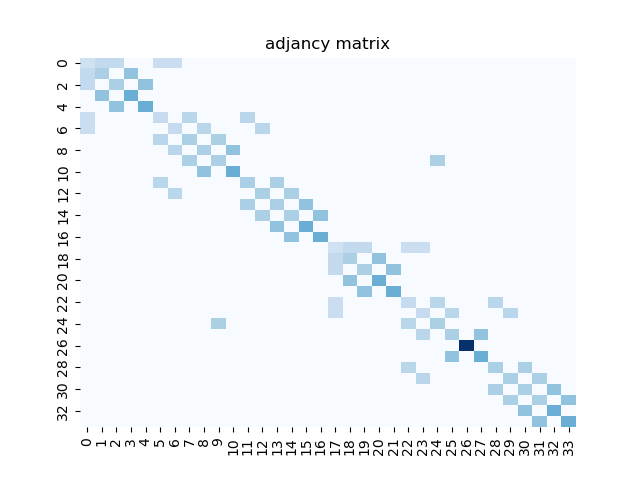
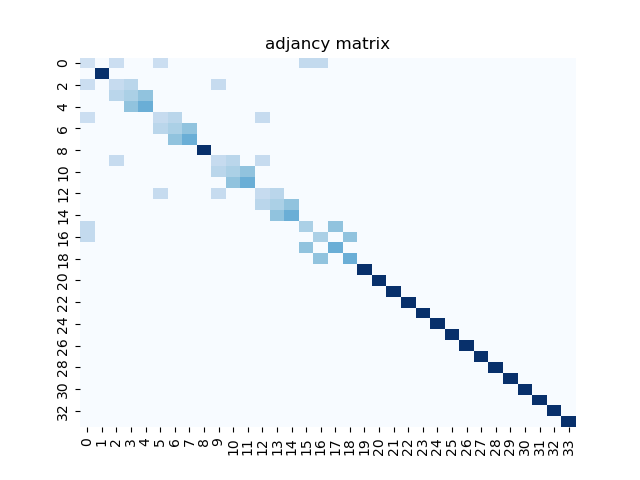
12/4

diff --git a/utils/create_data.py b/utils/create_data.py
@@ -2,7 +2,8 @@ import numpy as np
 import os
 import time
 import datetime
-from utils.pre_data import to_center, t_skeleton_normarization_fixed_size, setup_data, t_skeleton_perspectiveTransform
+from utils.pre_data import to_center, t_skeleton_normarization_fixed_size, setup_data, t_skeleton_perspectiveTransform, PreNormalize3D
+from utils.preprocess import pre_normalization, transform_normarize
 
 def create_two_person_data(meta, try_count, input_file_name):
     
@@ -22,62 +23,116 @@ def create_two_person_data(meta, try_count, input_file_name):
     right_node_index = meta["right_node_index"]
     
     if not (os.path.isdir(f"my_data/{input_file_name}/{try_count}")):
-        keypoints = np.load("my_data/N_M_T_V_C_keiypoints.npy")
-        labels = np.load("my_data/N_Time.npy")
-
         
-        N, M, T, V, C = keypoints.shape
-        if meta["is_turned"] == True:
-            keypoints[N//2:, :, :, :, 0] = keypoints[N//2:, :, :, :, 0] * -1.0
+        if (meta["in_channels"] == 2):
+            keypoints = np.load("my_data/N_M_T_V_C_keiypoints.npy")
+            labels = np.load("my_data/N_Time.npy")
 
-        VxM = len(left_node_index) + len(right_node_index)
 
-        data = np.zeros((N * min_move_num, out_frame_num, VxM, C))
-
-        for i in range(N):
-            for j in range(M):
-                
-                if meta["has_bn"] == False:
-                    # 人物をフレームの中心に持ってくる
-                    keypoints[i, j] = to_center(keypoints[i, j], shoulder_and_hip, 255, 255)
-                    # 時間(T, V, C)を入力にして正規化
-                    keypoints[i, j] = t_skeleton_normarization_fixed_size(data=keypoints[i, j], fixed_size=50, is_center=meta["is_center"])
-                    
-                if meta["has_perspective"] == True:
-                    keypoints[i, j] = t_skeleton_perspectiveTransform(data=keypoints[i, j],  shoulder_and_hip=shoulder_and_hip)
-                    
-
-            # 左の人からはleft_node_indexにはいっているノードだけ取り出す
-            # 例 left_node_index=[0, 1, 2, 15] 鼻,左目,右目,左足首
-            # 左側の人と右側の人とを同じグラフにする
-            left_person = np.transpose(keypoints[i, 0, :, left_node_index, :], (1, 0, 2))
-            right_person = np.transpose(keypoints[i, 1, :, right_node_index, :], (1, 0, 2))
             
-            tmp = np.concatenate((left_person, right_person), 1)
+            N, M, T, V, C = keypoints.shape
+            if meta["is_turned"] == True:
+                keypoints[N//2:, :, :, :, 0] = keypoints[N//2:, :, :, :, 0] * -1.0
+                
 
-            data[i * min_move_num : (i + 1) * min_move_num] = setup_data(tmp, labels[i], out_frame_num, interval_num, min_move_num)
+            
 
-        data = data / meta["normarize_scale"]
-        print(data.shape)
+            VxM = len(left_node_index) + len(right_node_index)
 
-        # 正解ラベル作成
-        label = np.arange(NUM_CLASSES)
-        label = label.repeat(min_move_num)
-        label = np.tile(label, (N // NUM_CLASSES))
-        print(label.shape)
+            data = np.zeros((N * min_move_num, out_frame_num, VxM, C))
 
-        # データを保存
-        os.makedirs(name=f"my_data/{input_file_name}/{try_count}", exist_ok=True)
+            for i in range(N):
+                for j in range(M):
+                    
+                    if meta["has_bn"] == False:
+                        # 人物をフレームの中心に持ってくる
+                        keypoints[i, j] = to_center(keypoints[i, j], shoulder_and_hip, 255, 255)
+                        # 時間(T, V, C)を入力にして正規化
+                        keypoints[i, j] = t_skeleton_normarization_fixed_size(data=keypoints[i, j], fixed_size=50, is_center=meta["is_center"])
+                        
+                    if meta["has_perspective"] == True:
+                        keypoints[i, j] = t_skeleton_perspectiveTransform(data=keypoints[i, j],  shoulder_and_hip=shoulder_and_hip)
+                        
 
-        np.save(f"my_data/{input_file_name}/{try_count}/data.npy", data)
-        np.save(f"my_data/{input_file_name}/{try_count}/label.npy", label)
+                # 左の人からはleft_node_indexにはいっているノードだけ取り出す
+                # 例 left_node_index=[0, 1, 2, 15] 鼻,左目,右目,左足首
+                # 左側の人と右側の人とを同じグラフにする
+                left_person = np.transpose(keypoints[i, 0, :, left_node_index, :], (1, 0, 2))
+                right_person = np.transpose(keypoints[i, 1, :, right_node_index, :], (1, 0, 2))
+                
+                tmp = np.concatenate((left_person, right_person), 1)
 
+                data[i * min_move_num : (i + 1) * min_move_num] = setup_data(tmp, labels[i], out_frame_num, interval_num, min_move_num)
+
+            data = data / meta["normarize_scale"]
+            print(data.shape)
+
+            # 正解ラベル作成
+            label = np.arange(NUM_CLASSES)
+            label = label.repeat(min_move_num)
+            label = np.tile(label, (N // NUM_CLASSES))
+            print(label.shape)
+
+            # データを保存
+            os.makedirs(name=f"my_data/{input_file_name}/{try_count}", exist_ok=True)
+
+            np.save(f"my_data/{input_file_name}/{try_count}/data.npy", data)
+            np.save(f"my_data/{input_file_name}/{try_count}/label.npy", label)
+
+
+##################################### 3d ##############################################################################################
+        elif (meta["in_channels"] == 3):
+            
+            if (meta["pose_data_type"] == "phalp"):
+                keypoints = np.load("my_data/phalp_n_m_t_v_c.npy")
+            else:
+                keypoints = np.load("my_data/3d_keiypoints.npy")
+                
+            labels = np.load("my_data/N_Time.npy")       
+            
+            N, M, T, V, C = keypoints.shape
+            VxM = len(left_node_index) + len(right_node_index)
+            data = np.zeros((N * min_move_num, out_frame_num, VxM, C))
+            
+            
+            # pysklの軸を合わせる正規化
+            if (meta["pyskl_3d_normarize"] == True):
+                keypoints = pre_normalization(keypoints)
+                
+            if (meta["transform_normarize"] == True):
+                keypoints = transform_normarize(keypoints, meta)
+            
+            tmp = keypoints.reshape(N, T, V*M, C)
+            for i in range(N):                
+                
+                # 左の人からはleft_node_indexにはいっているノードだけ取り出す
+                # 例 left_node_index=[0, 1, 2, 15] 鼻,左目,右目,左足首
+                # 左側の人と右側の人とを同じグラフにする
+                left_person = np.transpose(keypoints[i, 0, :, left_node_index, :], (1, 0, 2))
+                right_person = np.transpose(keypoints[i, 1, :, right_node_index, :], (1, 0, 2))
+                
+                tmp = np.concatenate((left_person, right_person), 1)
+                data[i * min_move_num : (i + 1) * min_move_num] = setup_data(tmp, labels[i], out_frame_num, interval_num, min_move_num)
+
+            # 正解ラベル作成
+            label = np.arange(NUM_CLASSES)
+            label = label.repeat(min_move_num)
+            label = np.tile(label, (N // NUM_CLASSES))
+            print(label.shape)
+
+            # データを保存
+            os.makedirs(name=f"my_data/{input_file_name}/{try_count}", exist_ok=True)
+
+            np.save(f"my_data/{input_file_name}/{try_count}/data.npy", data)
+            np.save(f"my_data/{input_file_name}/{try_count}/label.npy", label)        
+                
     else:
         print("data_file is existed")
-        
+             
         
     data_creation_time = time.time()
     print("data_creation_time : ", datetime.timedelta(seconds=data_creation_time - start))
+    
     
     
 def create_one_person_data(meta, try_count, input_file_name):

diff --git a/utils/pre_data.py b/utils/pre_data.py
@@ -356,3 +356,87 @@ def warpPerspective(d, M):
     _x = (M[0, 0]*x + M[0, 1]*y + M[0, 2]) / (M[2, 0]*x + M[2, 1]*y + M[2, 2])
     _y = (M[1, 0]*x + M[1, 1]*y + M[1, 2]) / (M[2, 0]*x + M[2, 1]*y + M[2, 2])
     return np.array([_x, _y])
+
+
+
+
+class PreNormalize3D:
+    """PreNormalize for NTURGB+D 3D keypoints (x, y, z). Codes adapted from https://github.com/lshiwjx/2s-AGCN. """
+
+    def unit_vector(self, vector):
+        """Returns the unit vector of the vector. """
+        return vector / np.linalg.norm(vector)
+
+    def angle_between(self, v1, v2):
+        """Returns the angle in radians between vectors 'v1' and 'v2'. """
+        if np.abs(v1).sum() < 1e-6 or np.abs(v2).sum() < 1e-6:
+            return 0
+        v1_u = self.unit_vector(v1)
+        v2_u = self.unit_vector(v2)
+        return np.arccos(np.clip(np.dot(v1_u, v2_u), -1.0, 1.0))
+
+    def rotation_matrix(self, axis, theta):
+        """Return the rotation matrix associated with counterclockwise rotation
+        about the given axis by theta radians."""
+        if np.abs(axis).sum() < 1e-6 or np.abs(theta) < 1e-6:
+            return np.eye(3)
+        axis = np.asarray(axis)
+        axis = axis / np.sqrt(np.dot(axis, axis))
+        a = np.cos(theta / 2.0)
+        b, c, d = -axis * np.sin(theta / 2.0)
+        aa, bb, cc, dd = a * a, b * b, c * c, d * d
+        bc, ad, ac, ab, bd, cd = b * c, a * d, a * c, a * b, b * d, c * d
+        return np.array([[aa + bb - cc - dd, 2 * (bc + ad), 2 * (bd - ac)],
+                        [2 * (bc - ad), aa + cc - bb - dd, 2 * (cd + ab)],
+                        [2 * (bd + ac), 2 * (cd - ab), aa + dd - bb - cc]])
+
+    def __init__(self, zaxis=[0, 8], xaxis=[1, 4], align_spine=True, align_center=True):
+        self.zaxis = zaxis
+        self.xaxis = xaxis
+        self.align_spine = align_spine
+        self.align_center = align_center
+
+
+    def __call__(self, keypoints):
+        skeleton = keypoints
+        # total_framesが存在しない場合は(M, T, V, C)のTをtotal_frameに代入
+        total_frames = keypoints.shape[1]
+
+        T, V, C = skeleton.shape
+        
+        if skeleton.sum() == 0:
+            return keypoints
+
+
+        T_new = skeleton.shape[0]
+
+        if self.align_center:
+            if skeleton.shape[1] == 25:
+                main_body_center = skeleton[0, 1].copy()
+            else:
+                main_body_center = skeleton[0, -1].copy()
+            mask = ((skeleton != 0).sum(-1) > 0)[..., None]
+            skeleton = (skeleton - main_body_center) * mask
+
+        if self.align_spine:
+            joint_bottom = skeleton[0, self.zaxis[0]]
+            joint_top = skeleton[0, self.zaxis[1]]
+            axis = np.cross(joint_top - joint_bottom, [0, 0, 1])
+            angle = self.angle_between(joint_top - joint_bottom, [0, 0, 1])
+            matrix_z = self.rotation_matrix(axis, angle)
+            skeleton = np.einsum('bcd,kd->bck', skeleton, matrix_z)
+
+            joint_rshoulder = skeleton[0, self.xaxis[0]]
+            joint_lshoulder = skeleton[0, self.xaxis[1]]
+            axis = np.cross(joint_rshoulder - joint_lshoulder, [1, 0, 0])
+            angle = self.angle_between(joint_rshoulder - joint_lshoulder, [1, 0, 0])
+            matrix_x = self.rotation_matrix(axis, angle)
+            skeleton = np.einsum('bcd,kd->bck', skeleton, matrix_x)
+            
+            
+            
+        # results['keypoint'] = skeleton
+        # results['total_frames'] = T_new
+        # results['body_center'] = main_body_center
+        keypoints = skeleton
+        return keypoints

diff --git a/utils/train.py b/utils/train.py
@@ -209,8 +209,8 @@ def walk_path_train(meta, try_count, input_file_name, output_file_name):
         avg_val_loss = val_loss / len(data_loader['test'].dataset)
         avg_val_acc = val_acc / len(data_loader['test'].dataset)
         
-        print ('Epoch [{}/{}], Loss: {loss:.4f}, val_loss: {val_loss:.4f}, val_acc: {val_acc:.4f}' 
-                    .format(epoch+1, NUM_EPOCH, i+1, loss=avg_train_loss, val_loss=avg_val_loss, val_acc=avg_val_acc))
+        print ('Epoch [{}/{}], train_loss: {train_loss:.4f}, train_acc : {train_acc} ,val_loss: {val_loss:.4f}, val_acc: {val_acc:.4f}' 
+                    .format(epoch+1, NUM_EPOCH, i+1, train_loss=avg_train_loss, train_acc=train_acc, val_loss=avg_val_loss, val_acc=avg_val_acc))
         train_loss_list.append(avg_train_loss)
         train_acc_list.append(avg_train_acc)
         val_loss_list.append(avg_val_loss)

diff --git a/train.py b/train.py
@@ -41,8 +41,8 @@ print("out_frame_num", out_frame_num)
 
 
 # *****************変数定義*********************************************************************
-input_file_name = f"{num_people}p_{node_option_name}_interval_{interval_num}_min_mov_num_{min_move_num}_out_frame_num_{out_frame_num}"
-output_file_name = f"{num_people}p_{name}_{node_option_name}_interval_{interval_num}_min_mov_num_{min_move_num}_out_frame_num_{out_frame_num}"
+input_file_name = f"{node_option_name}"
+output_file_name = f"{name}_{node_option_name}"
 
 
 # ******************試行開始**********************************************************************
